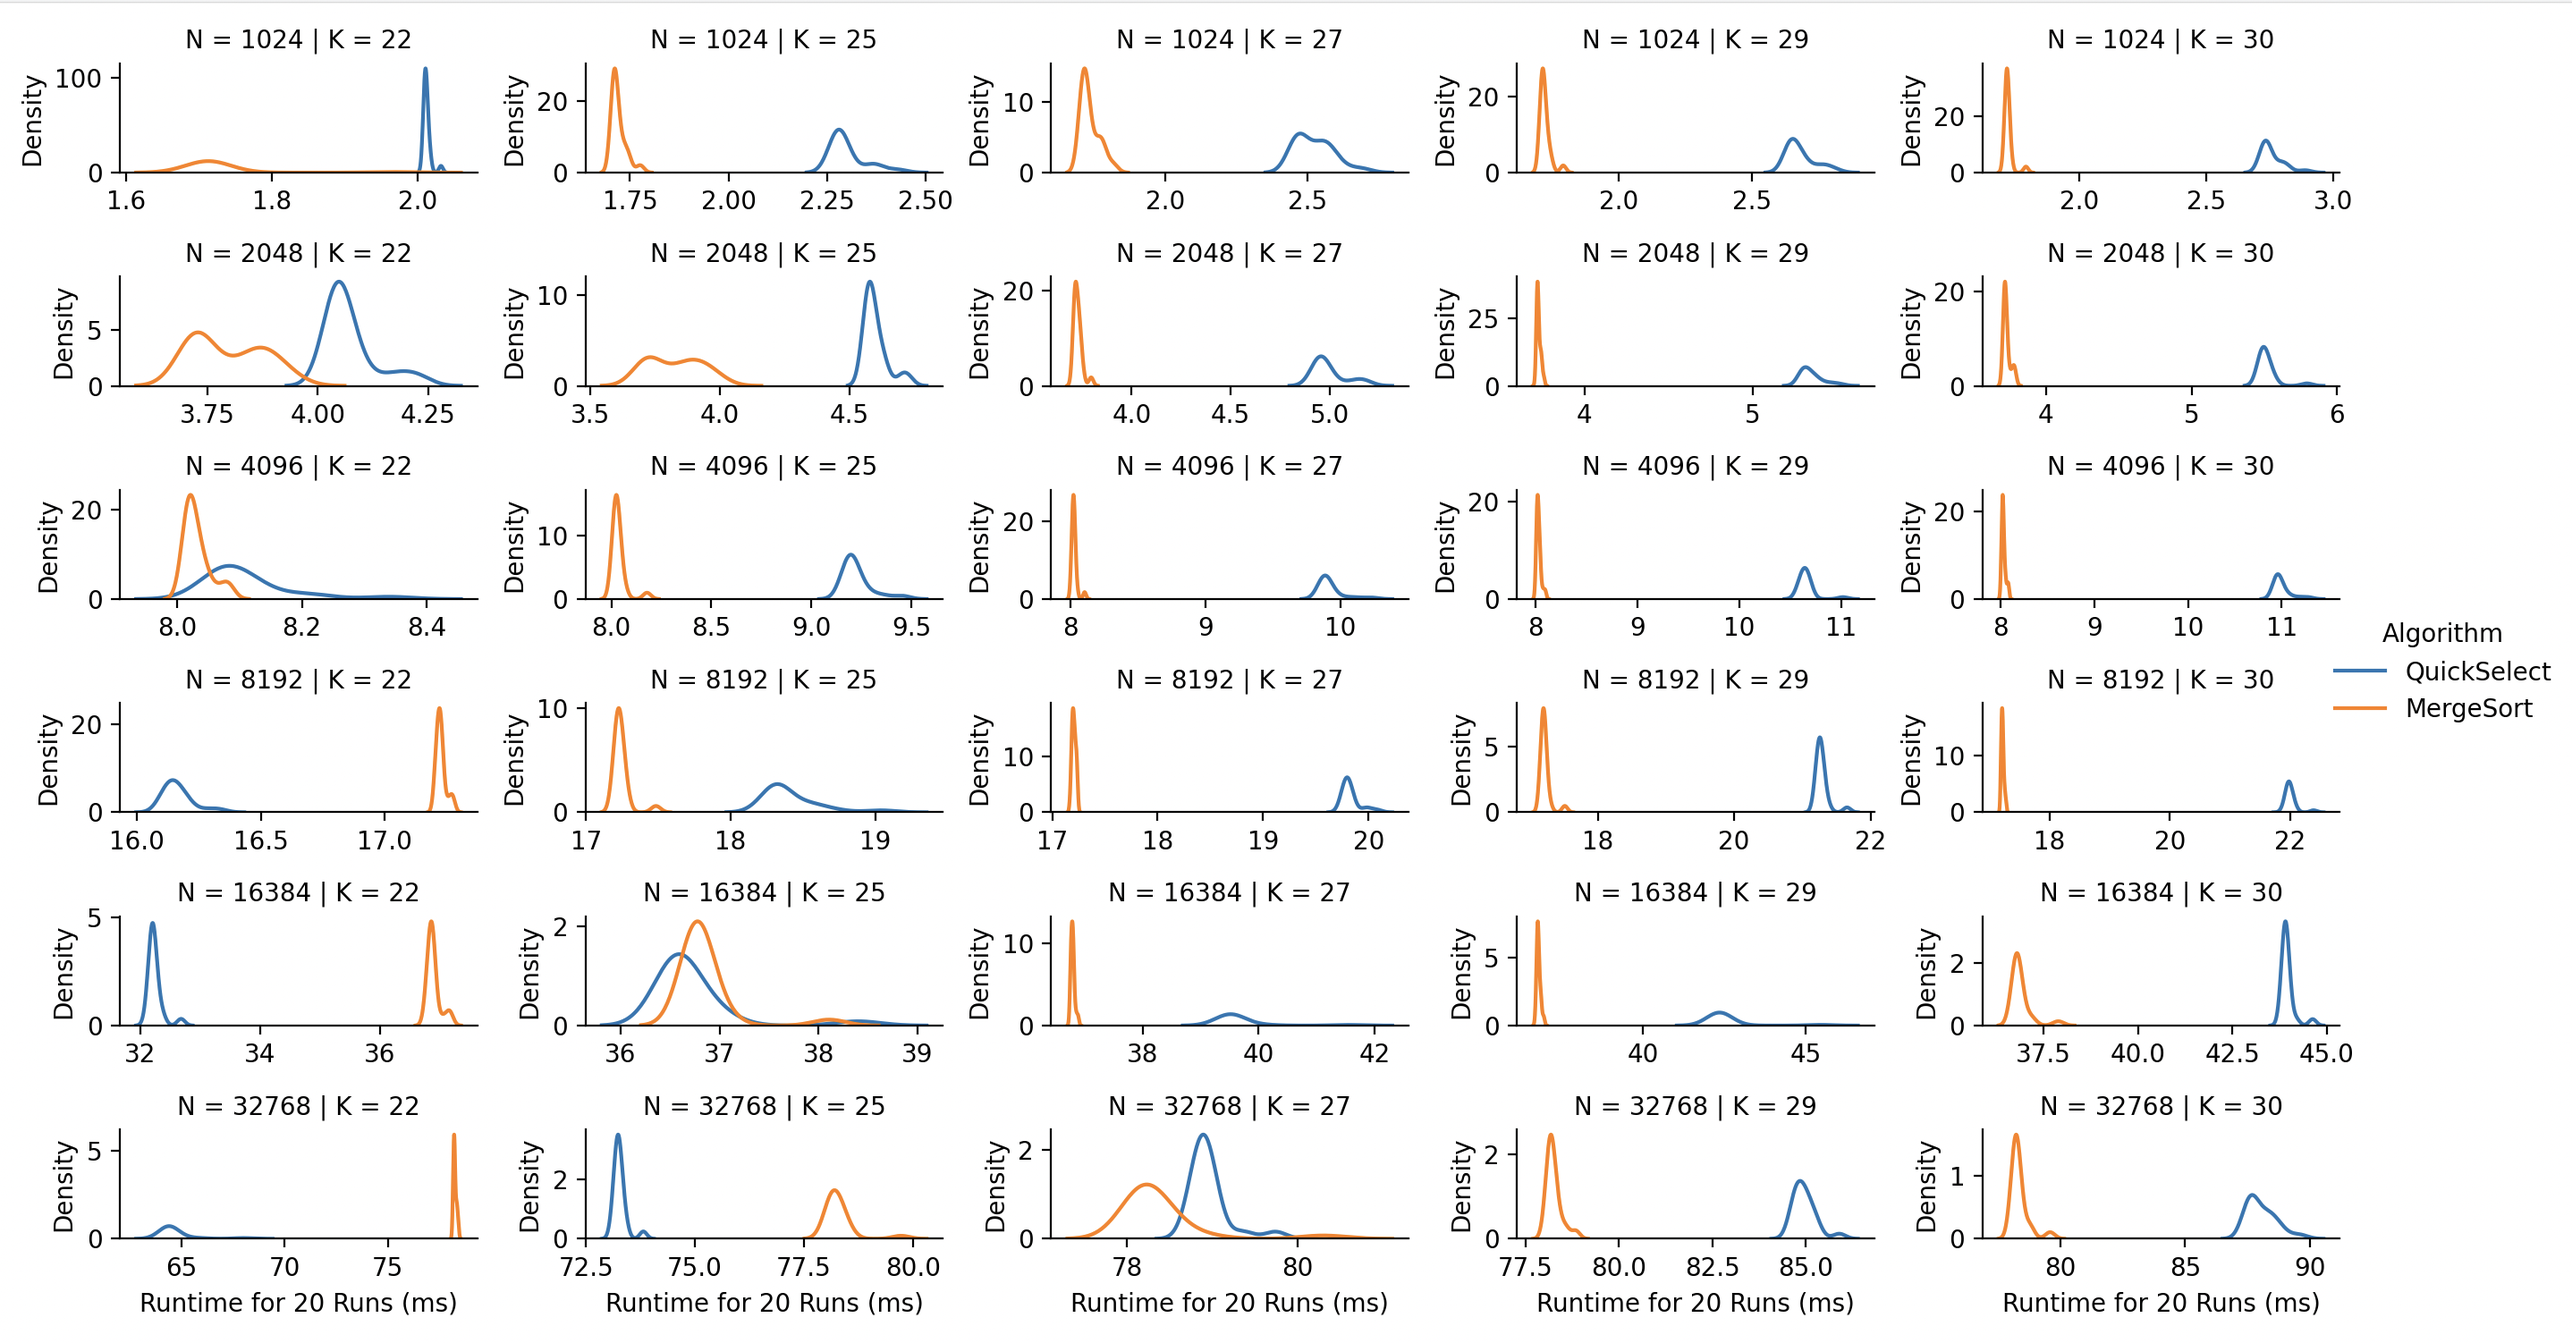
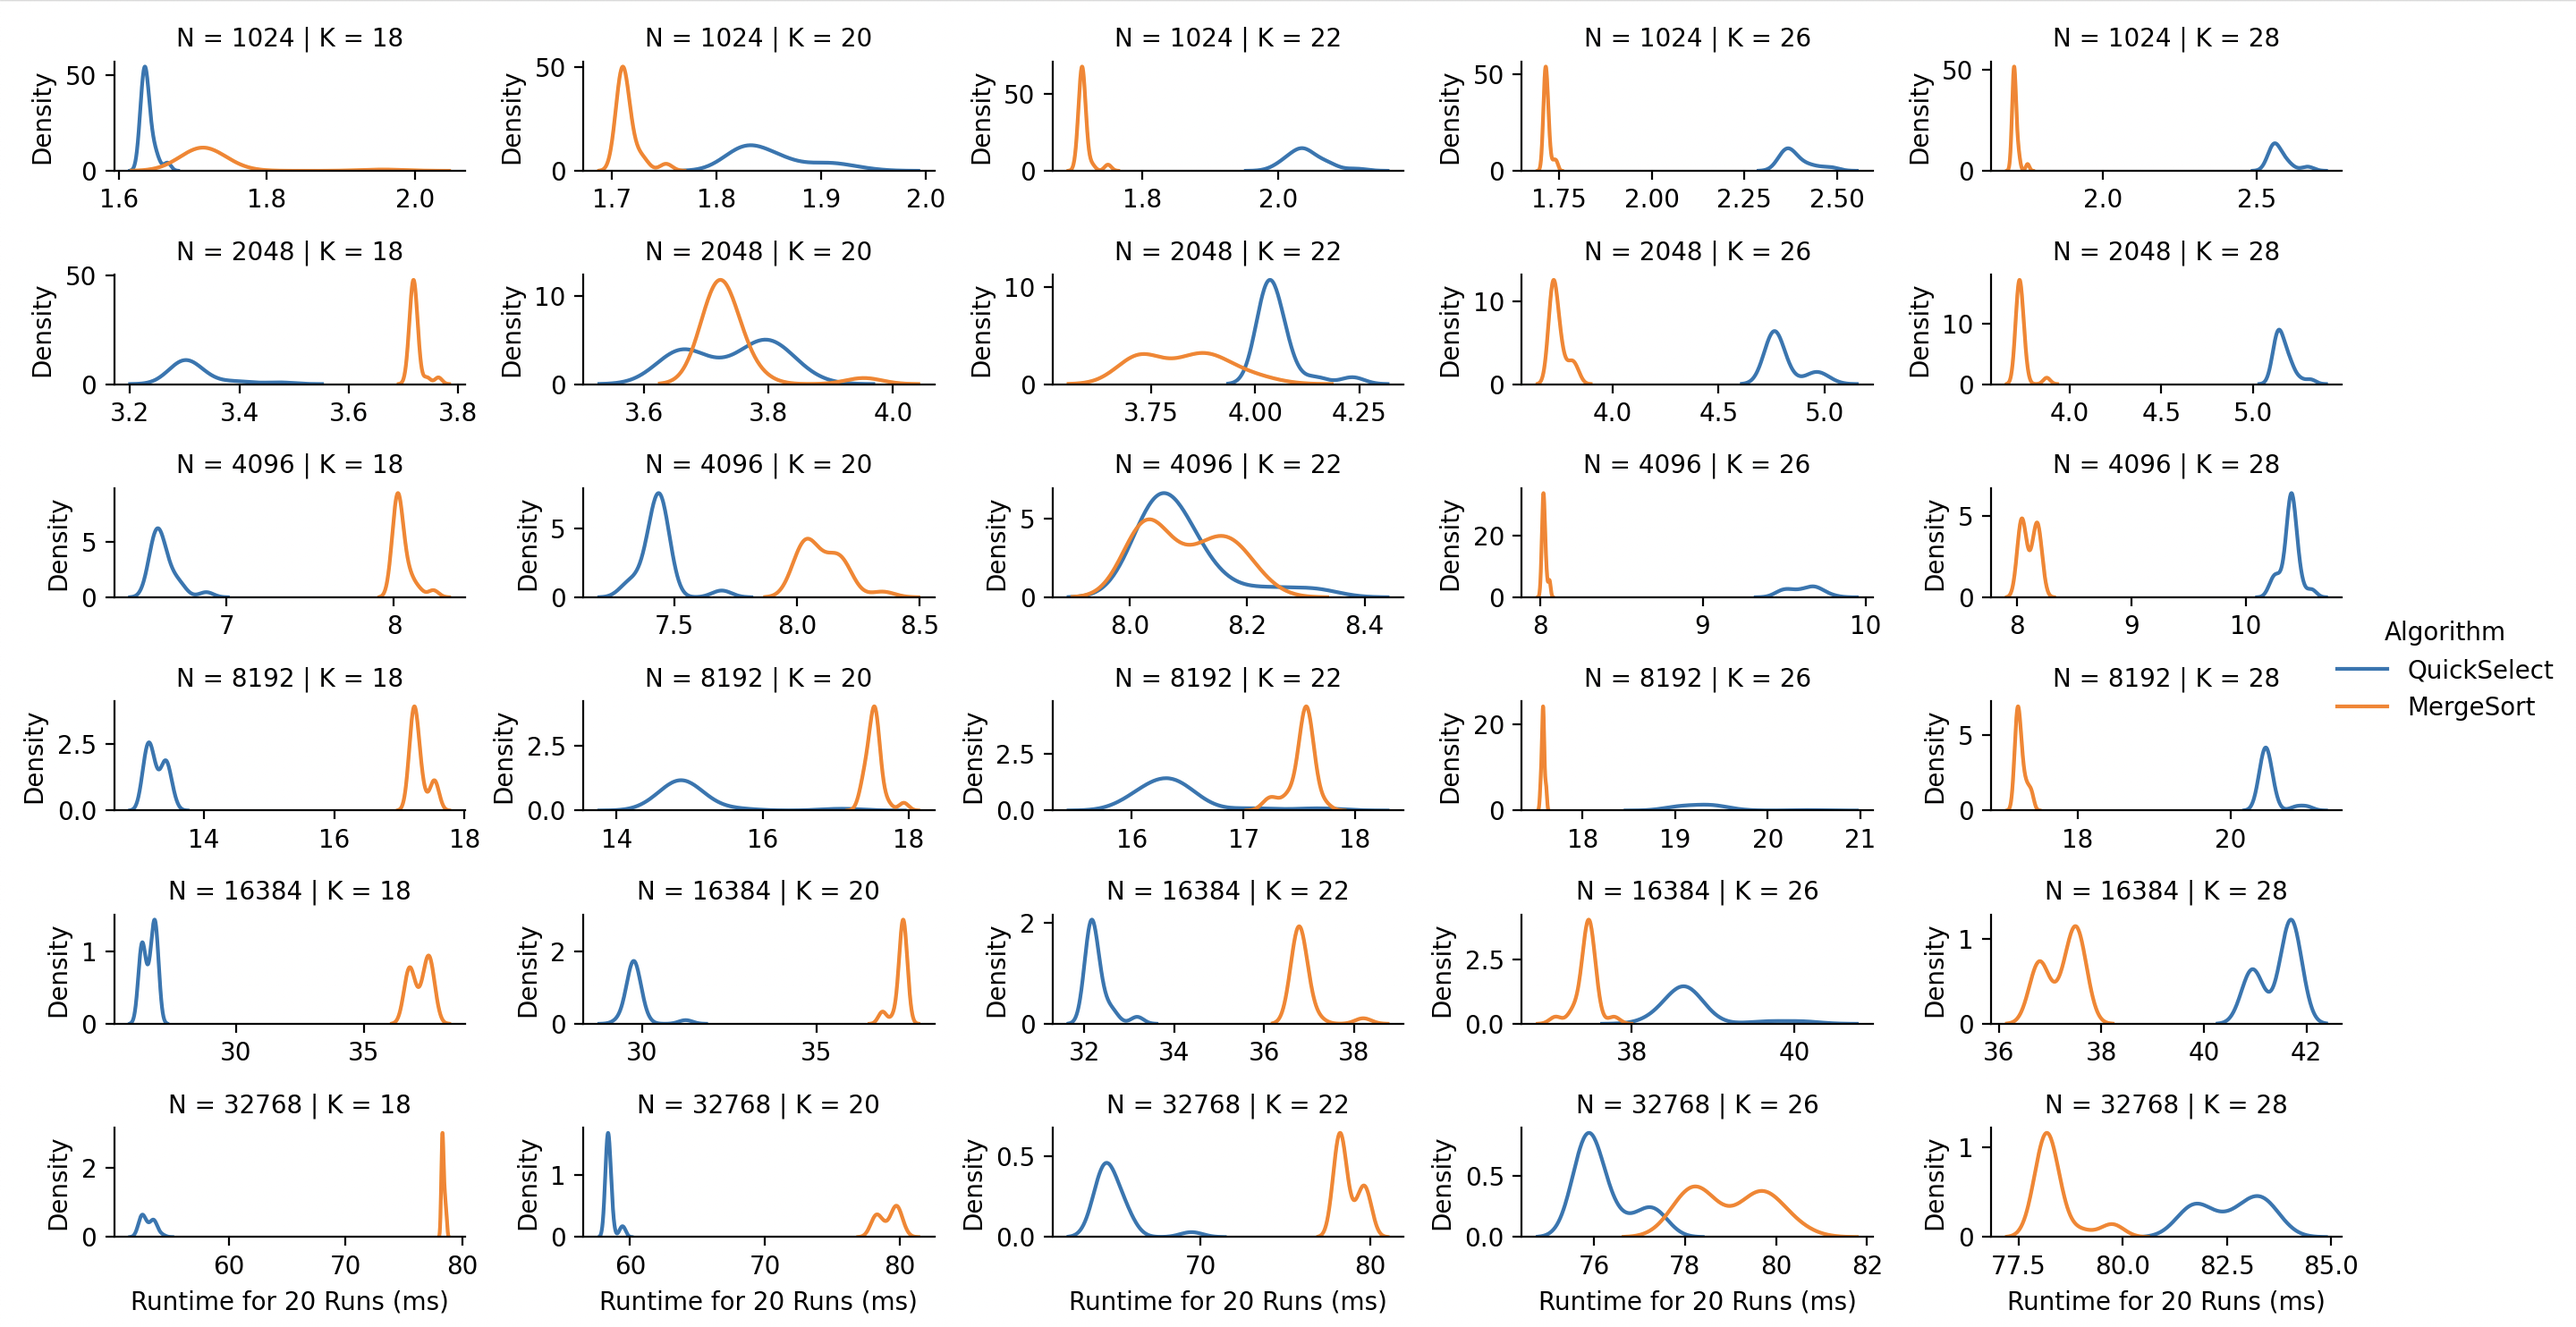
ps4 graph update

diff --git a/fall2022/psets/ps4/ps4.py b/fall2022/psets/ps4/ps4.py
@@ -154,7 +154,7 @@ def MergeSortSelect(arr, query_list):
 
 def experiments():
     # Edit this parameter
-    k = [22, 25, 27, 29, 30]
+    k = [70, 90, 110, 130, 150]
 
     # Feel free to edit these initial parameters
 
